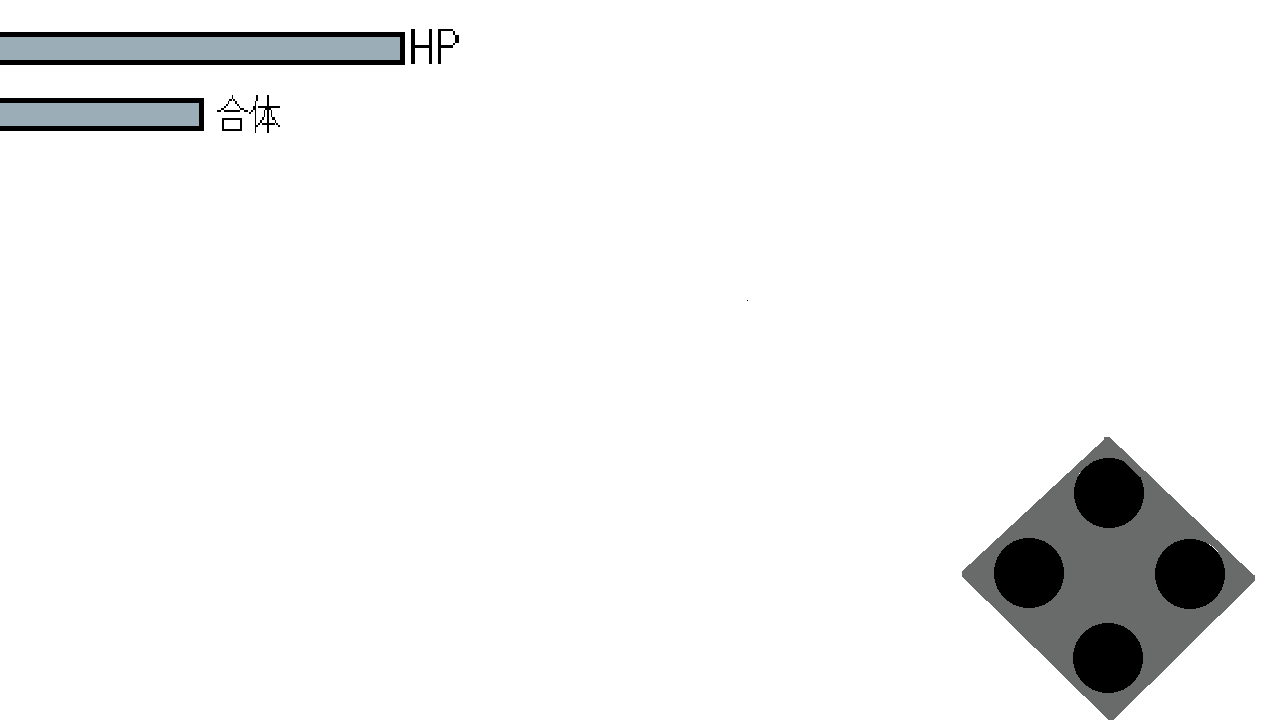
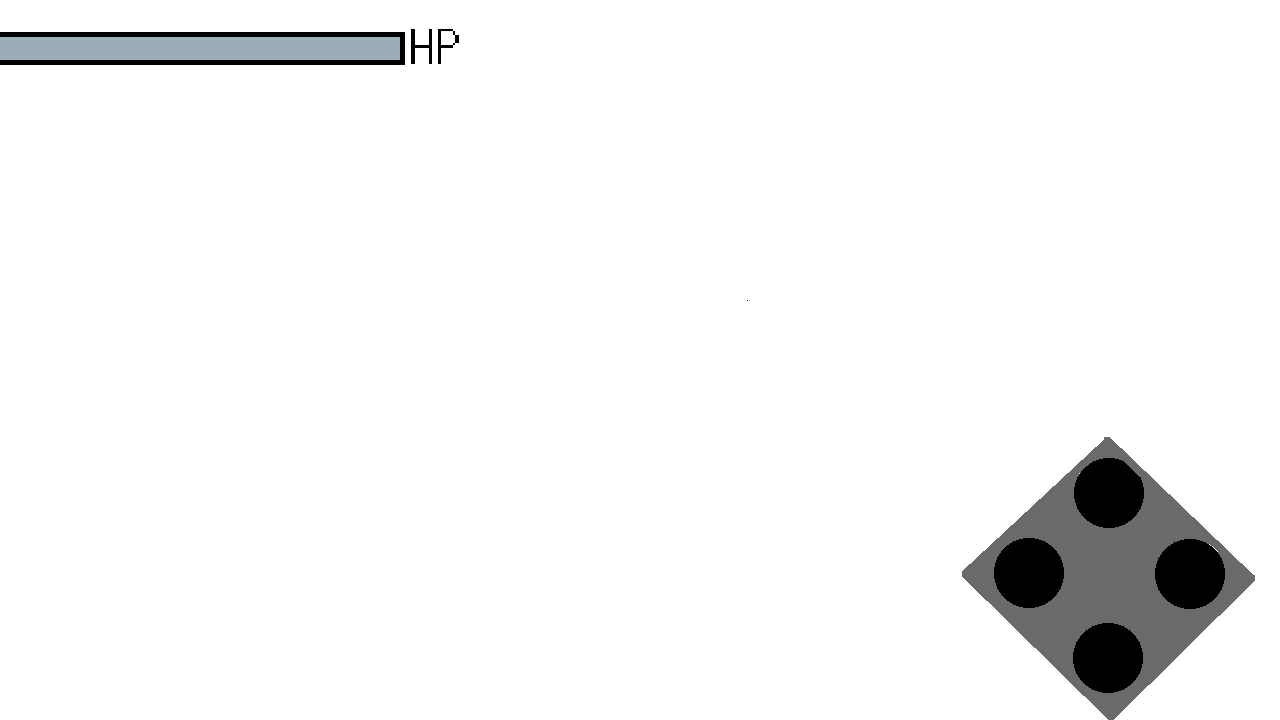
ゲームフロー追加

Changed region(s): [[0.0, 0.1222, 0.2188, 0.1833]]

diff --git a/User/SCENE/GameScene.cpp b/User/SCENE/GameScene.cpp
@@ -21,6 +21,10 @@ GameScene::~GameScene() {
 	delete buttomPng2;
 	delete hpGauge;
 	delete unionGauge;
+	delete titlePic;
+	delete selectPic;
+	delete clearPic;
+	delete gameoverPic;
 }
 
 /// <summary>
@@ -88,6 +92,31 @@ void GameScene::Initialize(DirectXCommon* dxCommon, Input* input) {
 	unionGauge->SetPozition({ 0,0 });
 	unionGauge->SetSize({ 1280.0f, 720.0f });
 
+	//ゲームフロー
+	scene = Scene::Title;
+	stage = 0;
+
+	titlePic = new Sprite();
+	titlePic->Initialize(spriteCommon);
+	titlePic->SetPozition({ 0,0 });
+	titlePic->SetSize({ 1280,720 });
+
+	selectPic = new Sprite();
+	selectPic->Initialize(spriteCommon);
+	selectPic->SetPozition({ 0,0 });
+	selectPic->SetSize({ 1280,720 });
+
+	clearPic = new Sprite();
+	clearPic->Initialize(spriteCommon);
+	clearPic->SetPozition({ 0,0 });
+	clearPic->SetSize({ 1280,720 });
+
+	gameoverPic = new Sprite();
+	gameoverPic->Initialize(spriteCommon);
+	gameoverPic->SetPozition({ 0,0 });
+	gameoverPic->SetSize({ 1280,720 });
+
+
 	spriteCommon->LoadTexture(0, "UI.png");
 	UI->SetTextureIndex(0);
 	spriteCommon->LoadTexture(1, "buttom1.png");
@@ -98,31 +127,78 @@ void GameScene::Initialize(DirectXCommon* dxCommon, Input* input) {
 	hpGauge->SetTextureIndex(3);
 	spriteCommon->LoadTexture(4, "unionGauge.png");
 	unionGauge->SetTextureIndex(4);
-
+	spriteCommon->LoadTexture(5, "title.png");
+	titlePic->SetTextureIndex(5);
+	spriteCommon->LoadTexture(6, "select.png");
+	selectPic->SetTextureIndex(6);
+	spriteCommon->LoadTexture(7, "clear.png");
+	clearPic->SetTextureIndex(7);
+	spriteCommon->LoadTexture(8, "gameover.png");
+	gameoverPic->SetTextureIndex(8);
 }
 
 /// <summary>
 /// 毎フレーム処理
 /// </summary>
 void GameScene::Update() {
-	
-	//仮で敵のラウンド切り替え
-	if (input->TriggerKey(DIK_P)) {
-		enemyManager_->creatEnemy(0);
-	}else if (input->TriggerKey(DIK_O)) {
-		enemyManager_->creatEnemy(1);
+	switch (scene)
+	{
+	case Scene::Title:
+		//シーン切り替え
+		if (input->PButtonTrigger(B)) {
+			scene = Scene::Select;
+		}
+
+		break;
+	case Scene::Select:
+		//ステージの選択
+		if(input->LeftStickInput()) {
+			if (input->PStickTrigger(L_LEFT)) {
+				stage = 0;
+
+			}else if (input->PStickTrigger(L_RIGHT)){
+				stage = 1;
+
+			}
+		}
+
+		//シーン切り替え
+		if (input->PButtonTrigger(B)) {
+			enemyManager_->creatEnemy(stage);
+			scene = Scene::Play;
+		}
+
+		break;
+	case Scene::Play:
+		CamUpdate();
+		enemyManager_->Update();
+		player_->Update(&camWtf);
+
+		hpGauge->SetPozition({ -400.0f + player_->GetHp() * 4 ,0 });
+
+		//シーン切り替え
+		if (player_->GetHp() < 0) {
+			scene = Scene::Gameover;
+		}else if (enemyManager_->IsAllEnemyDead()) {
+			scene = Scene::Clear;
+		}
+
+		break;
+	case Scene::Clear:
+		//シーン切り替え
+		if (input->PButtonTrigger(B)) {
+			scene = Scene::Title;
+		}
+
+		break;
+	case Scene::Gameover:
+		//シーン切り替え
+		if (input->PButtonTrigger(B)) {
+			scene = Scene::Title;
+		}
+
+		break;
 	}
-
-
-
-	CamUpdate();
-	enemyManager_->Update();
-	player_->Update(&camWtf);
-
-	hpGauge->SetPozition({-400.0f + player_->GetHp() * 4 ,0});
-
-	//hpGaugeのxを(-400 + player.GeHp() * 4)動かしたい
-
 }
 
 /// <summary>
@@ -136,34 +212,72 @@ void GameScene::Draw() {
 	/// <summary>
 	//3Dオブジェクト描画前処理
 	Object3d::PreDraw(dxCommon->GetCommandList());
-	
-
 	//// 3Dオブクジェクトの描画
-	player_->Draw();
-	enemyManager_->Draw();
+	switch (scene)
+	{
+	case Scene::Title:
 
 
+		break;
+	case Scene::Select:
+
+
+		break;
+	case Scene::Play:
+		player_->Draw();
+		enemyManager_->Draw();
+
+
+		break;
+	case Scene::Clear:
+
+
+		break;
+	case Scene::Gameover:
+
+
+		break;
+	}
 	//3Dオブジェクト描画後処理
 	Object3d::PostDraw();
 
-	// 3Dオブジェクト描画前処理
+
+	// パーティクル描画前処理
 	ParticleManager::PreDraw(dxCommon->GetCommandList());
+	//// パーティクルの描画
+	switch (scene)
+	{
+	case Scene::Title:
+		titlePic->Draw();
 
+		break;
+	case Scene::Select:
+		selectPic->Draw();
 
-	//// 3Dオブクジェクトの描画
+		break;
+	case Scene::Play:
+		UI->Draw();
+		if (input->ButtonInput(LT)) {
+			buttomPng2->Draw();
+		}
+		else {
+			buttomPng1->Draw();
+		}
+		hpGauge->Draw();
+		unionGauge->Draw();
 
+		break;
+	case Scene::Clear:
+		clearPic->Draw();
 
-	// 3Dオブジェクト描画後処理
-	ParticleManager::PostDraw();
+		break;
+	case Scene::Gameover:
+		gameoverPic->Draw();
 
-	UI->Draw();
-	if (input->ButtonInput(LT)) {
-		buttomPng2->Draw();
-	}else {
-		buttomPng1->Draw();
+		break;
 	}
-	hpGauge->Draw();
-	unionGauge->Draw();
+	// パーティクル描画後処理
+	ParticleManager::PostDraw();
 }
 
 
@@ -248,7 +362,6 @@ void GameScene::CamUpdate() {
 
 	camera->Update();
 }
-
 
 Vector3 GameScene::bVelocity(Vector3& velocity, Transform& worldTransform)
 {

diff --git a/User/EnemyManager.cpp b/User/EnemyManager.cpp
@@ -69,3 +69,14 @@ void EnemyManager::Draw() {
 	}
 
 }
+
+
+bool EnemyManager::IsAllEnemyDead() {
+	bool result = false;
+
+	if (enemys_.size() == 0) {
+		result = true;
+	}
+
+	return result;
+}

diff --git a/User/EnemyManager.h b/User/EnemyManager.h
@@ -18,6 +18,8 @@ public:
 
 	void SetPlayer(Player* player) { player_ = player; };
 
+	bool IsAllEnemyDead();
+
 private:
 	Transform* origin = nullptr;
 
